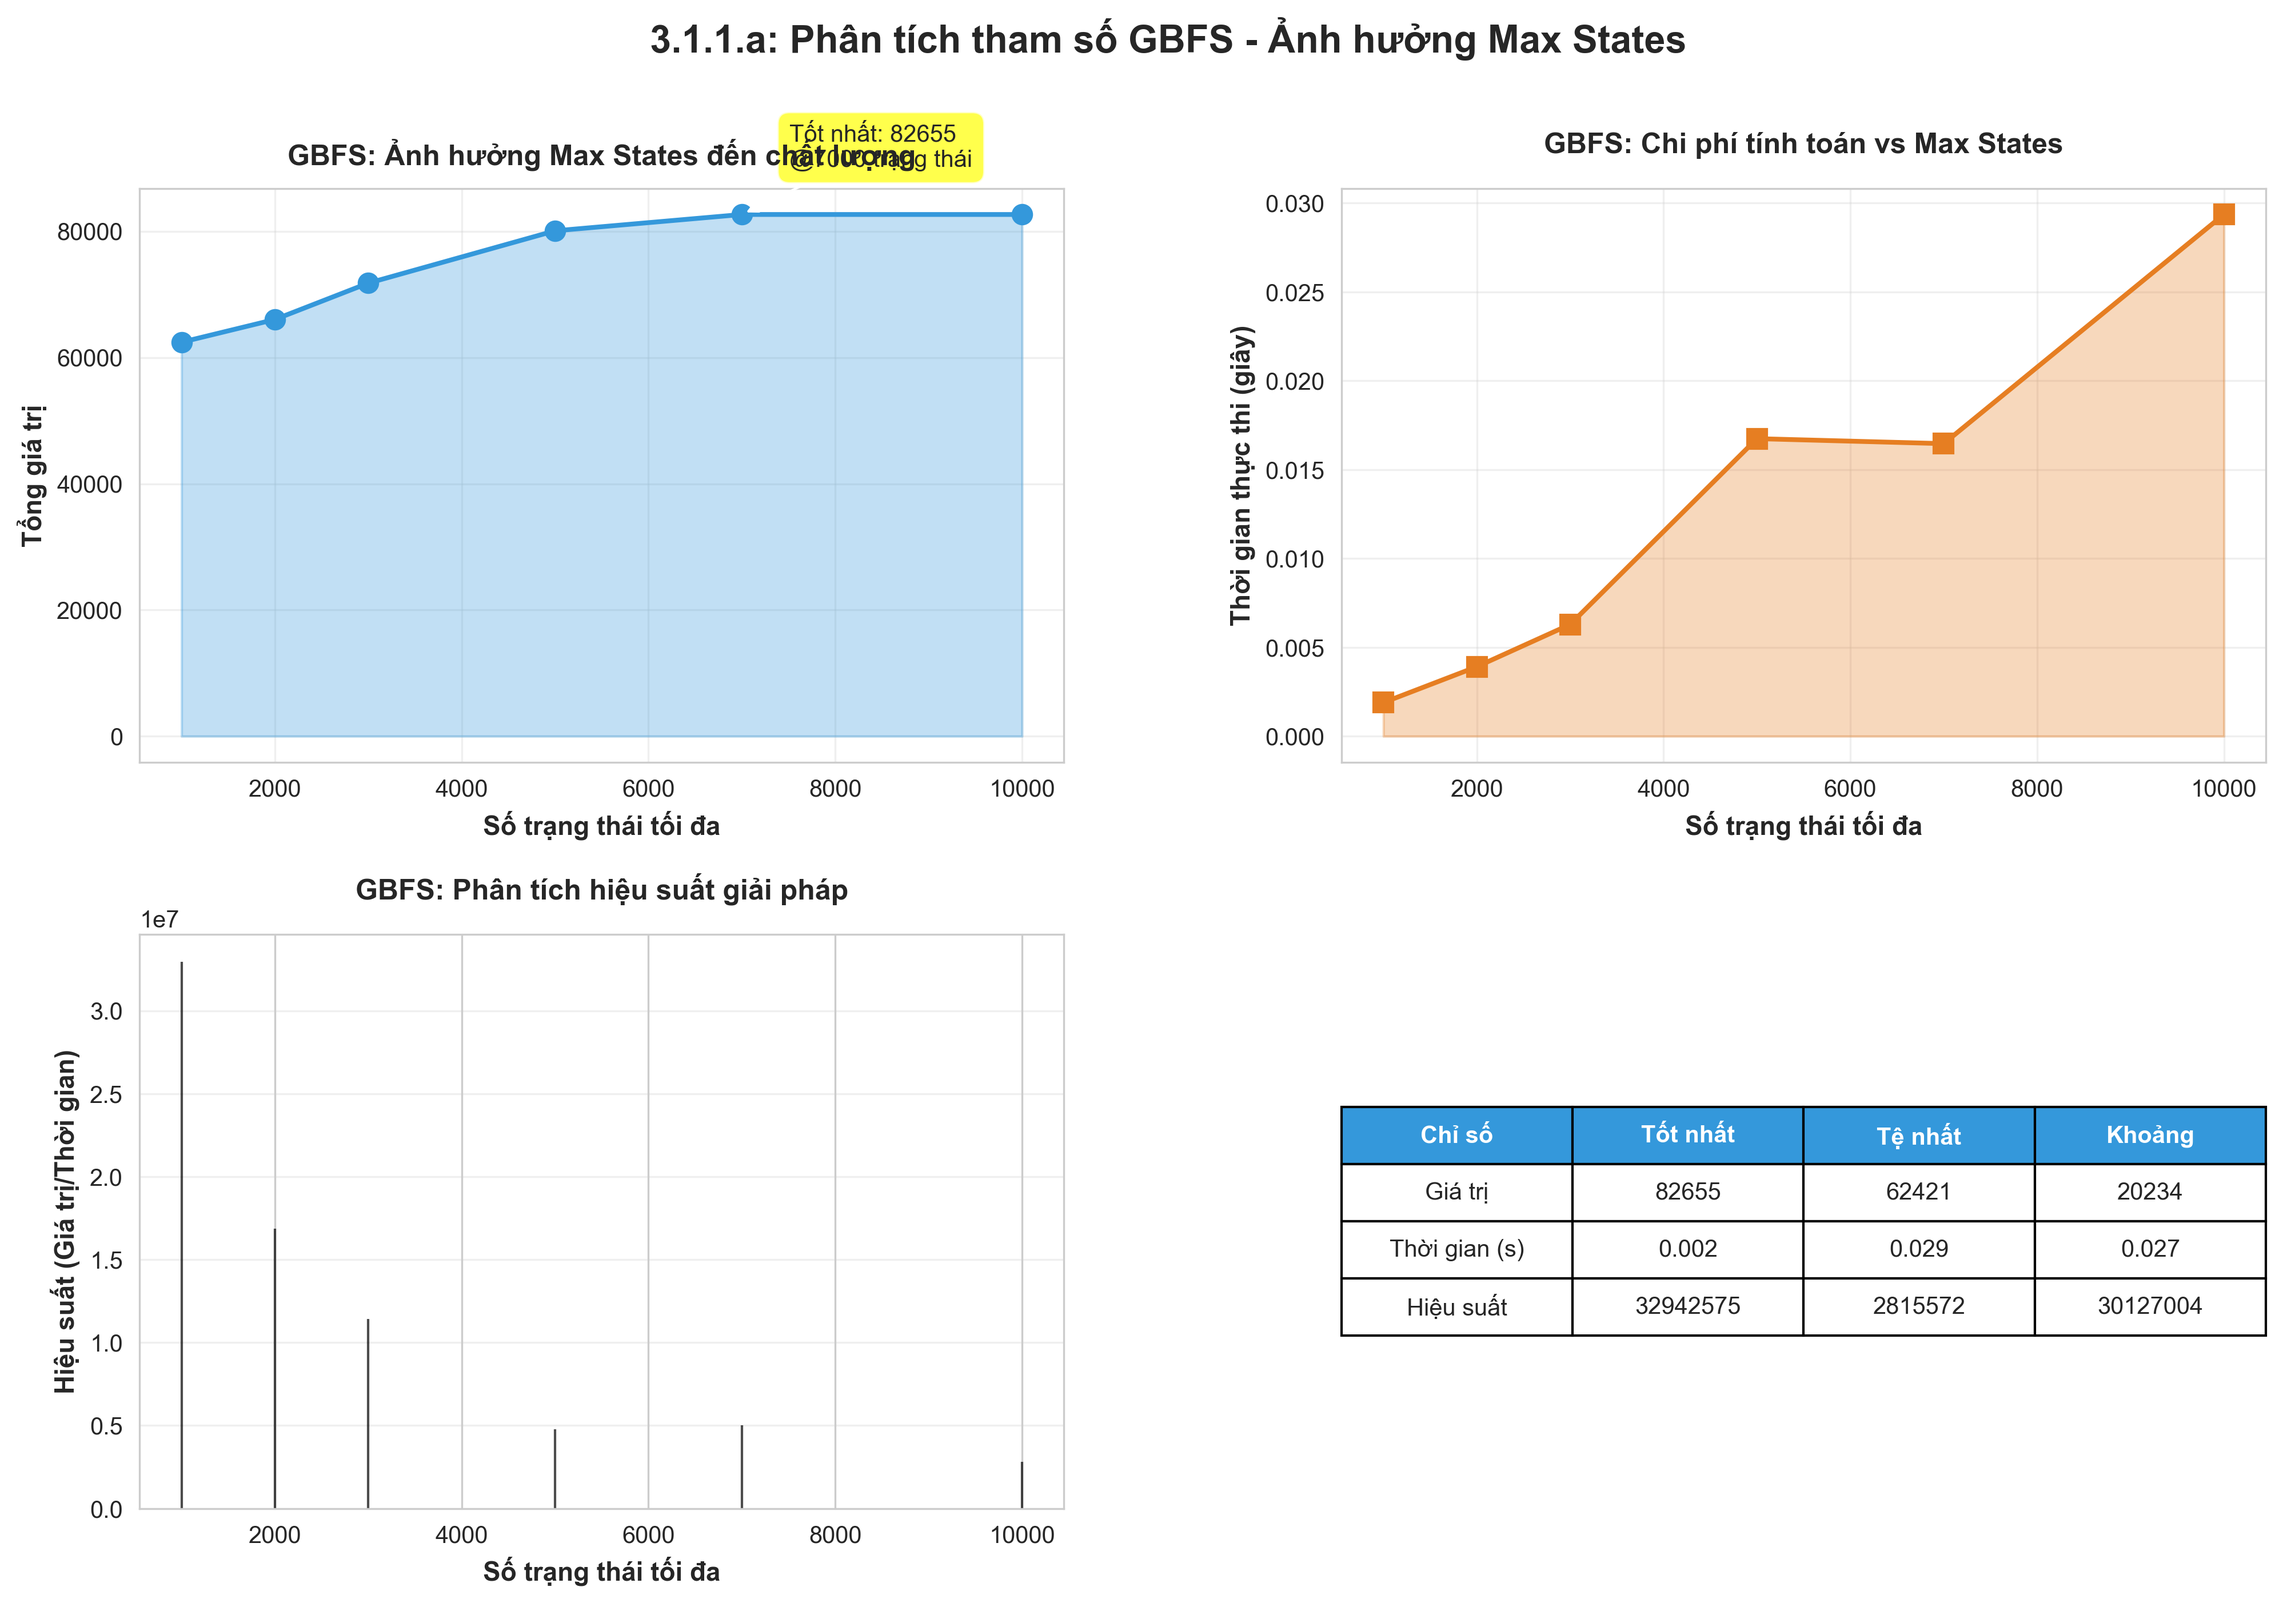
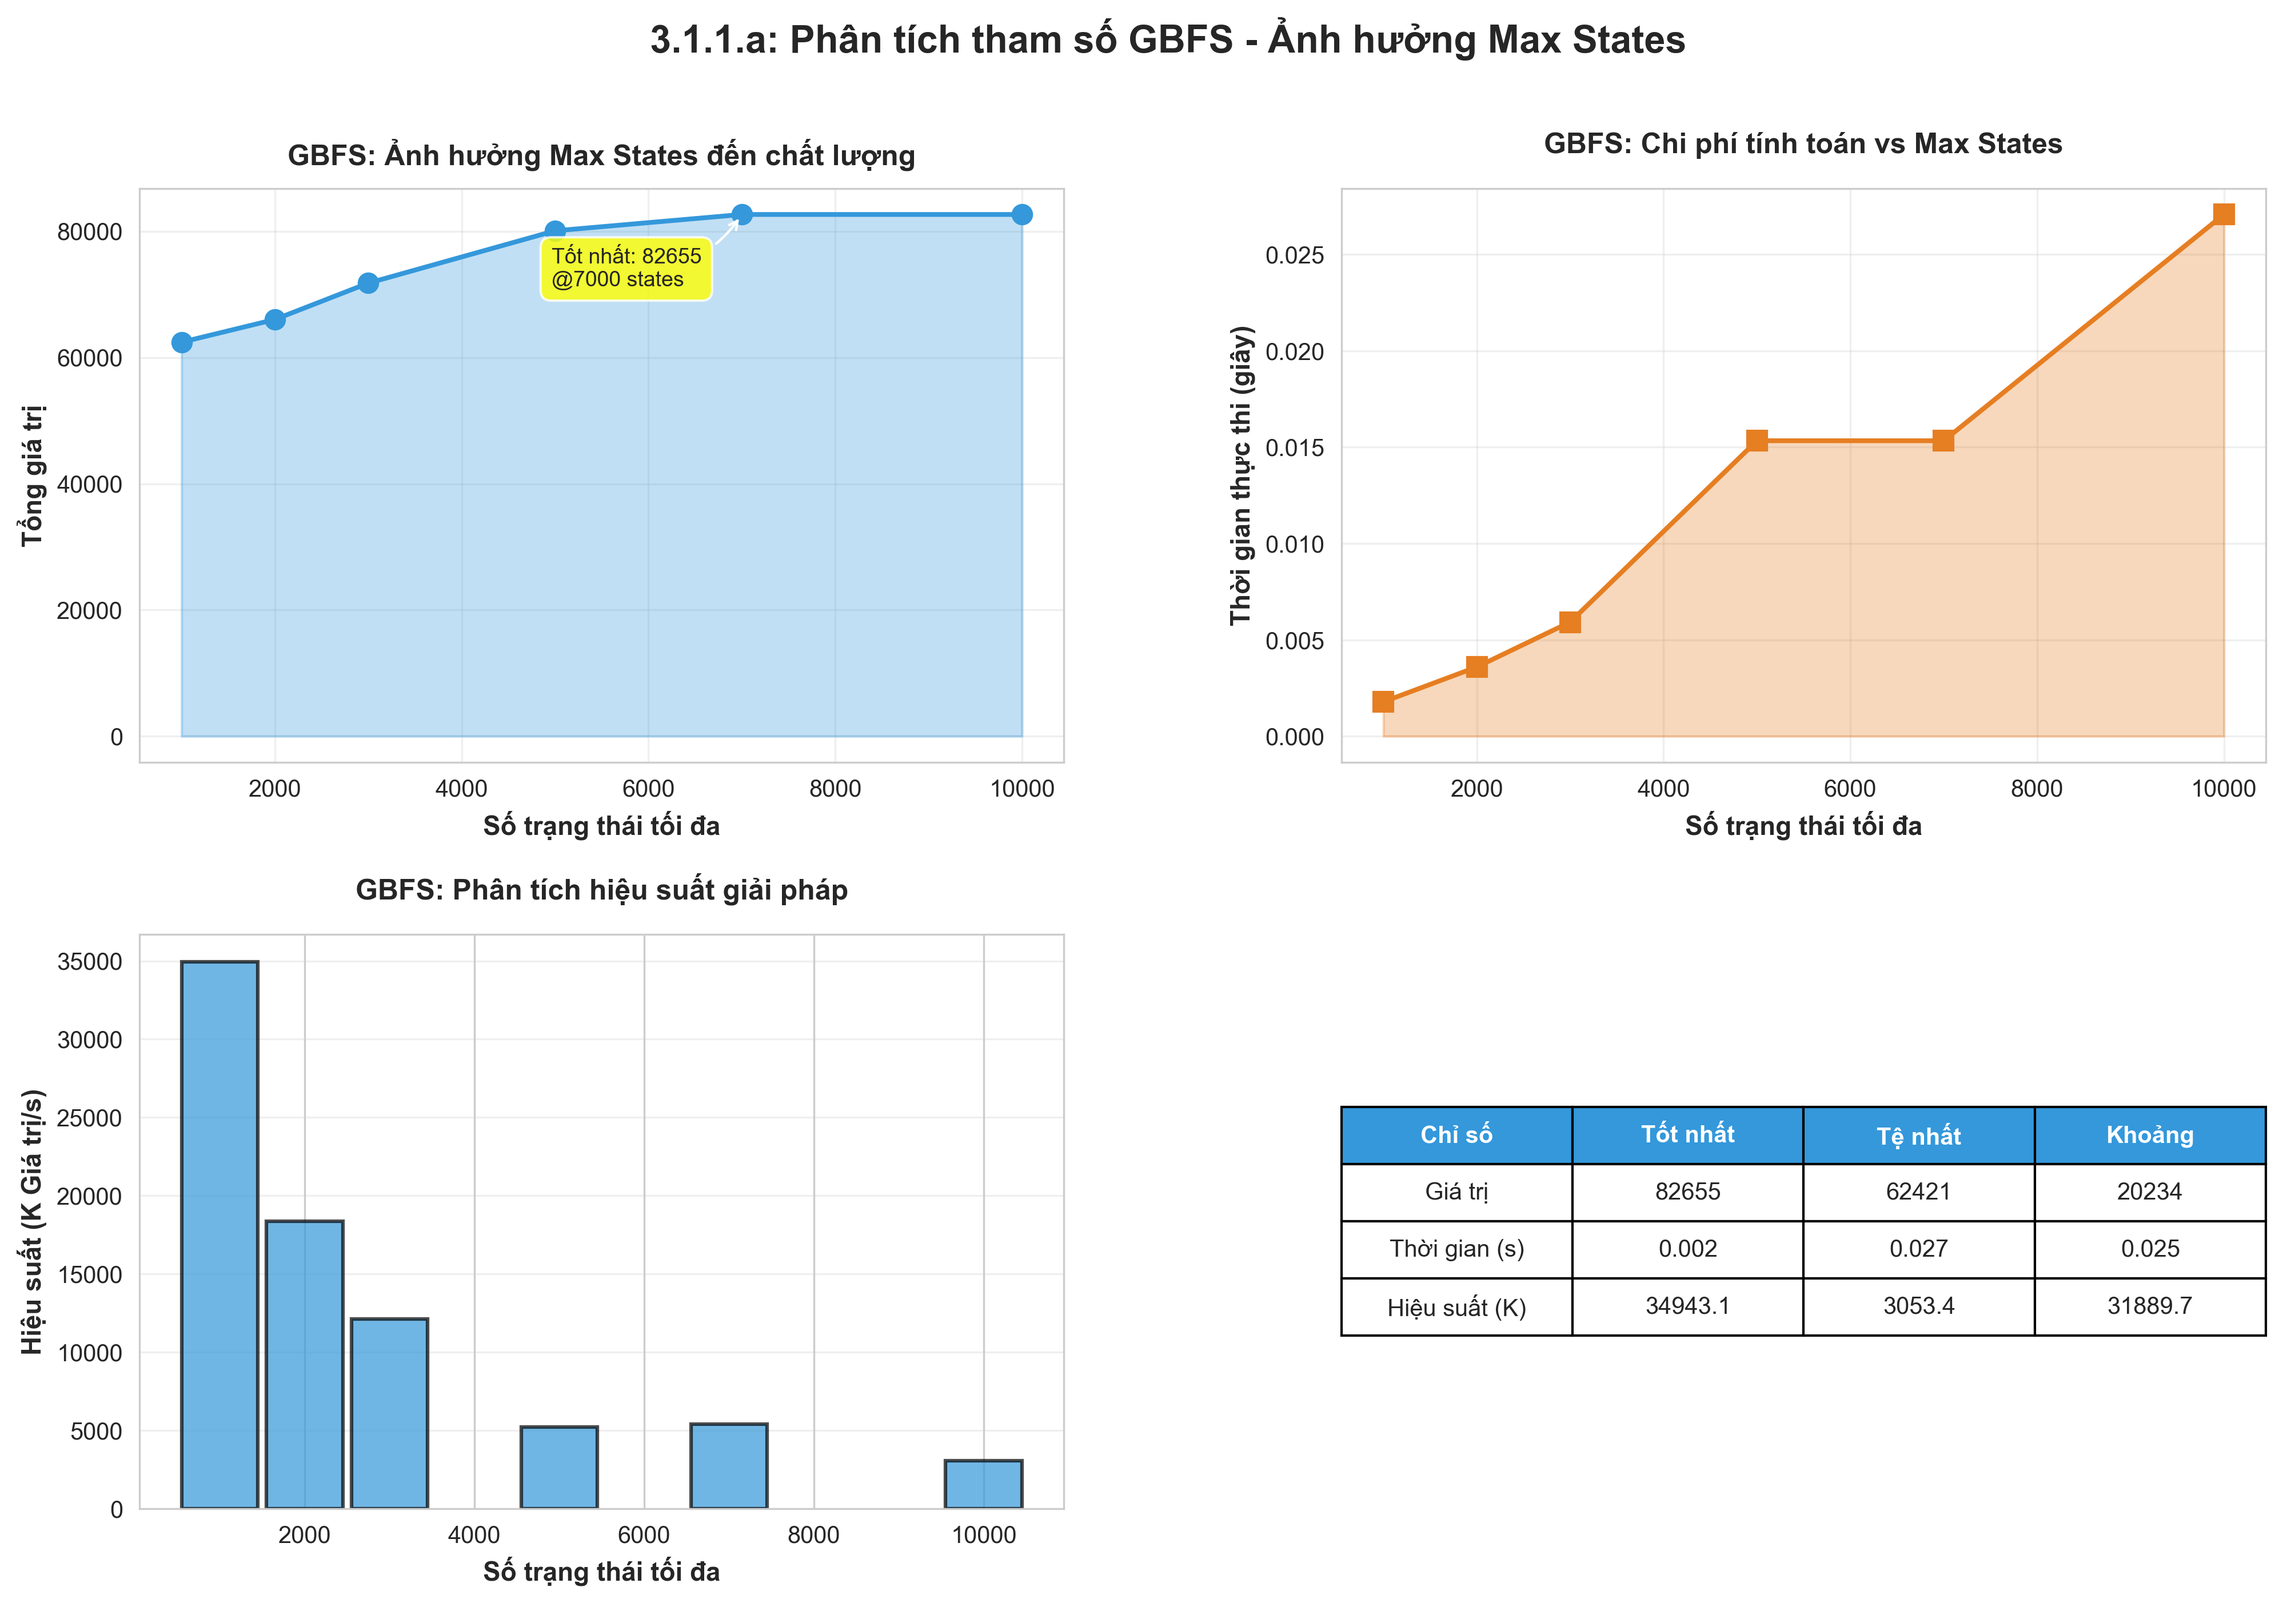
Fix: Update GBFS parameters and improve visualization annotations

diff --git a/src/visualization/advanced_visualizer.py b/src/visualization/advanced_visualizer.py
@@ -71,13 +71,14 @@ class AdvancedKnapsackVisualizer:
         ax1.set_title('GBFS: Ảnh hưởng Max States đến chất lượng', fontweight='bold', pad=10)  # Shorter, less pad
         ax1.grid(True, alpha=0.3)
         
-        # Thêm annotation cho best value
+        # Thêm annotation cho best value - đặt góc trên bên trái để tránh che
         best_idx = results_df['value'].idxmax()
-        ax1.annotate(f'Tốt nhất: {results_df.loc[best_idx, "value"]:.0f}\n@{results_df.loc[best_idx, "max_states"]} trạng thái',
+        ax1.annotate(f'Tốt nhất: {results_df.loc[best_idx, "value"]:.0f}\n@{results_df.loc[best_idx, "max_states"]} states',
                     xy=(results_df.loc[best_idx, 'max_states'], results_df.loc[best_idx, 'value']),
-                    xytext=(20, 20), textcoords='offset points',
-                    bbox=dict(boxstyle='round,pad=0.5', fc='yellow', alpha=0.7),
-                    arrowprops=dict(arrowstyle='->', connectionstyle='arc3,rad=0'))
+                    xytext=(-80, -30), textcoords='offset points',
+                    bbox=dict(boxstyle='round,pad=0.5', fc='yellow', alpha=0.8),
+                    arrowprops=dict(arrowstyle='->', connectionstyle='arc3,rad=0.3'),
+                    fontsize=9)
         
         # Plot 2: Time vs Max States
         ax2 = fig.add_subplot(gs[0, 1])
@@ -90,12 +91,16 @@ class AdvancedKnapsackVisualizer:
         ax2.set_title('GBFS: Chi phí tính toán vs Max States', fontweight='bold', pad=15)
         ax2.grid(True, alpha=0.3)
         
-        # Plot 3: Efficiency (Value/Time ratio)
+        # Plot 3: Efficiency (Value/Time ratio) - Scale to K (thousands)
         ax3 = fig.add_subplot(gs[1, 0])
-        efficiency = results_df['value'] / results_df['time']
-        ax3.bar(results_df['max_states'], efficiency, color=self.colors['gbfs'], alpha=0.7, edgecolor='black')
+        efficiency = results_df['value'] / results_df['time'] / 1000  # Scale to thousands
+        
+        # Set bar width based on data spacing
+        bar_width = (results_df['max_states'].max() - results_df['max_states'].min()) / len(results_df) * 0.6
+        ax3.bar(results_df['max_states'], efficiency, width=bar_width, 
+                color=self.colors['gbfs'], alpha=0.7, edgecolor='black', linewidth=1.5)
         ax3.set_xlabel('Số trạng thái tối đa', fontweight='bold')
-        ax3.set_ylabel('Hiệu suất (Giá trị/Thời gian)', fontweight='bold')
+        ax3.set_ylabel('Hiệu suất (K Giá trị/s)', fontweight='bold')
         ax3.set_title('GBFS: Phân tích hiệu suất giải pháp', fontweight='bold', pad=15)
         ax3.grid(True, alpha=0.3, axis='y')
         
@@ -109,8 +114,8 @@ class AdvancedKnapsackVisualizer:
              f"{results_df['value'].max() - results_df['value'].min():.0f}"],
             ['Thời gian (s)', f"{results_df['time'].min():.3f}", f"{results_df['time'].max():.3f}", 
              f"{results_df['time'].max() - results_df['time'].min():.3f}"],
-            ['Hiệu suất', f"{efficiency.max():.0f}", f"{efficiency.min():.0f}", 
-             f"{efficiency.max() - efficiency.min():.0f}"]
+            ['Hiệu suất (K)', f"{efficiency.max():.1f}", f"{efficiency.min():.1f}", 
+             f"{efficiency.max() - efficiency.min():.1f}"]
         ]
         
         table = ax4.table(cellText=summary_data, cellLoc='center', loc='center',
